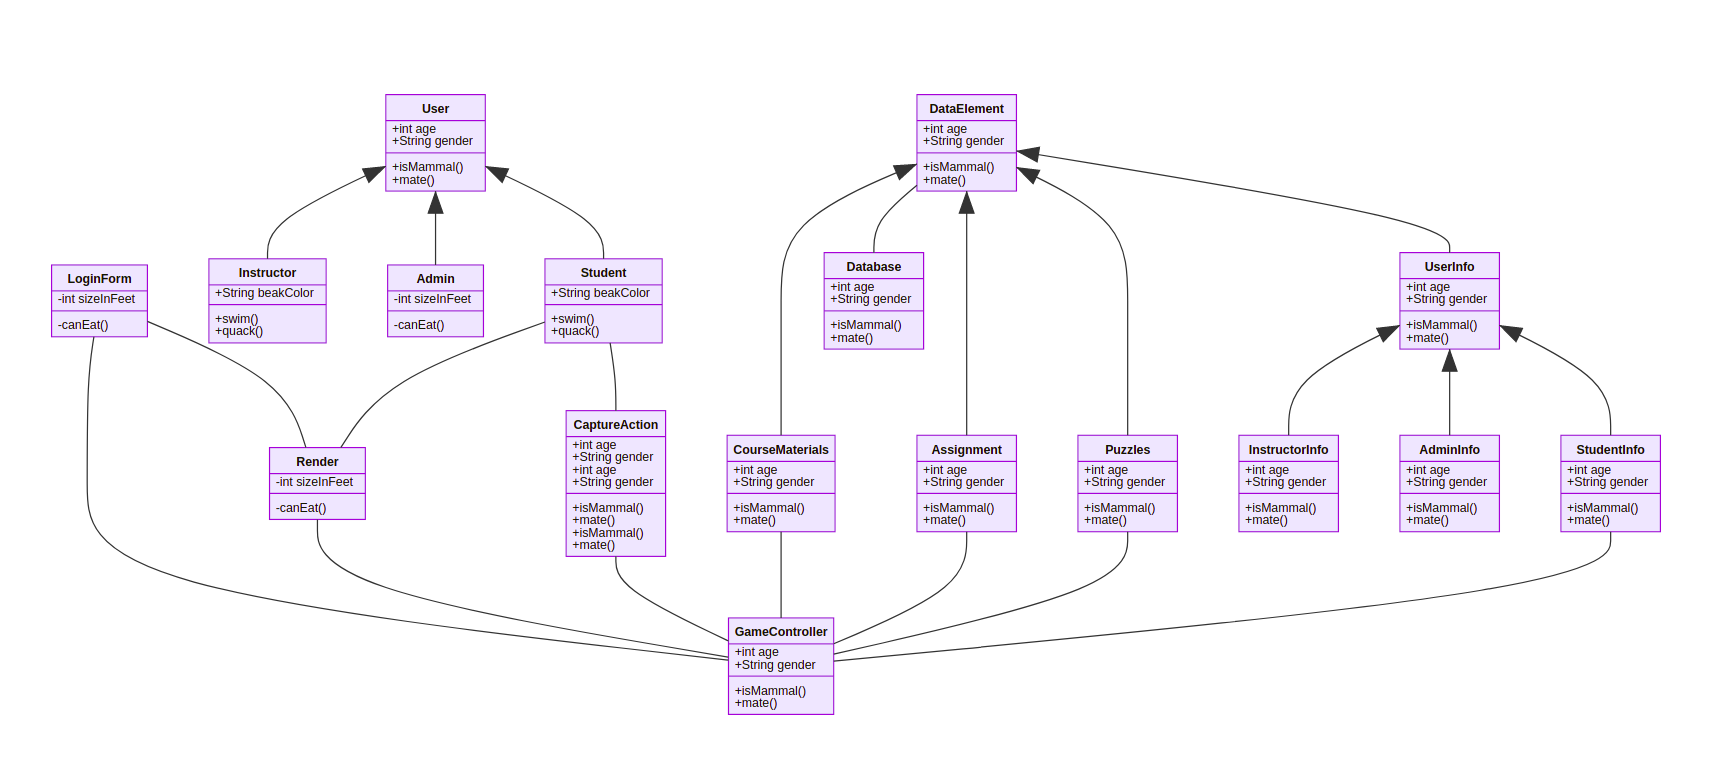
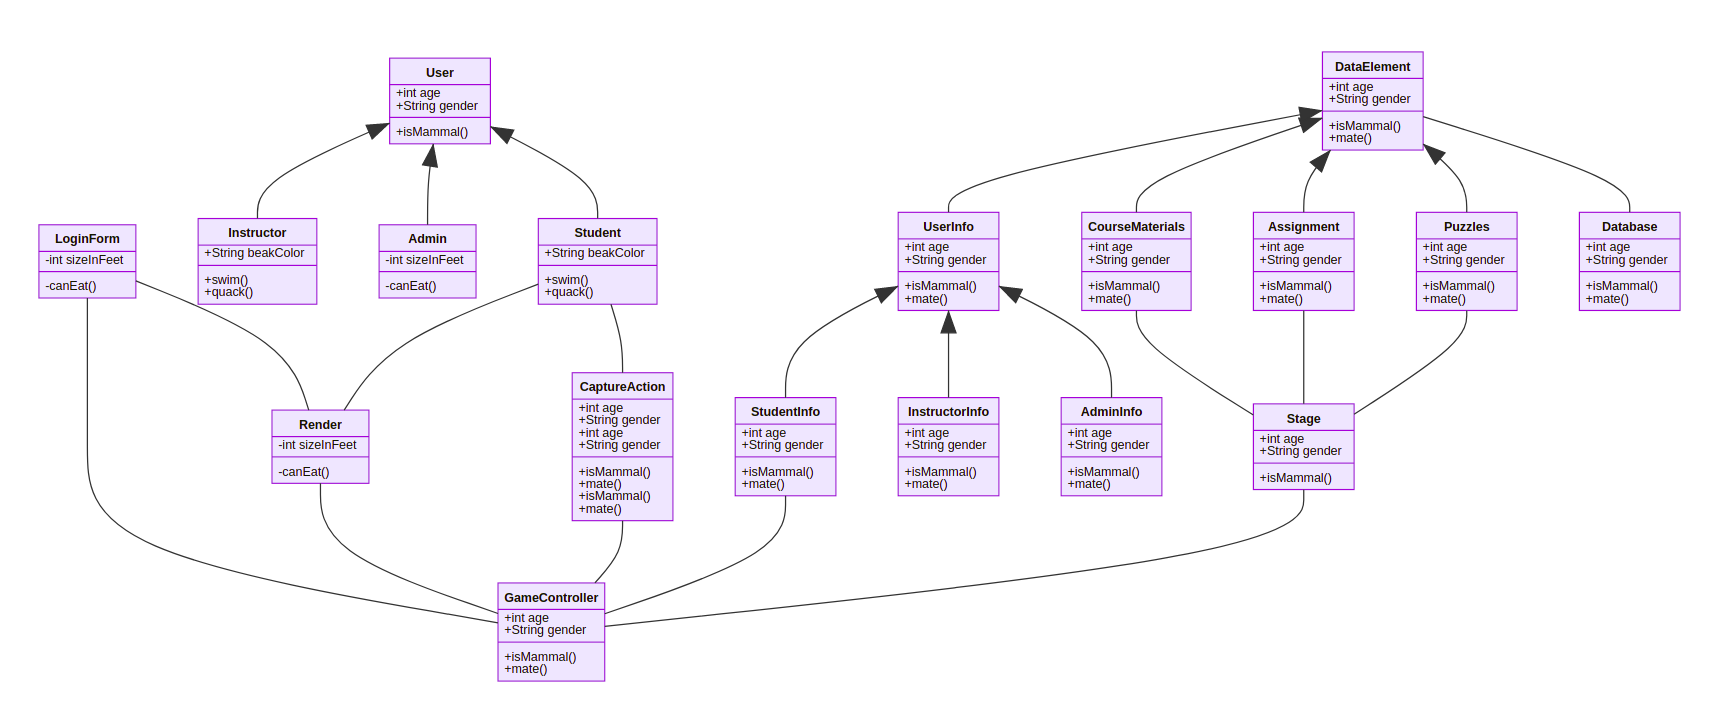
applying modifications

diff --git a/Assignment_2/class_draft/class_login_browse.md b/Assignment_2/class_draft/class_login_browse.md
@@ -1,25 +1,25 @@
 ```mermaid
 classDiagram
 
+
 User <|-- Student
 User <|-- Instructor
 User <|-- Admin
 
 
-LoginForm -- Render
+User -- LoginForm
+
+DashboardController -- LoginForm
+DashboardController -- RenderDashboard
+DashboardController -- UserInfo
+DashboardController -- Stage
 
 
-Student -- Render
-Student -- CaptureAction
+CourseMaterials -- Stage
+Assignment -- Stage
+Puzzles -- Stage
 
-LoginForm -- GameController
-Render -- GameController
-CaptureAction -- GameController
-CourseMaterials -- GameController
-Assignment -- GameController
-Puzzles -- GameController
-StudentInfo -- GameController
-
+DataElement <|-- UserInfo
 DataElement <|-- CourseMaterials
 DataElement <|-- Assignment
 DataElement <|-- Puzzles
@@ -29,16 +29,14 @@ UserInfo <|-- StudentInfo
 UserInfo <|-- InstructorInfo
 UserInfo <|-- AdminInfo
 
-DataElement -- Database
 
 
+Database -- DataElement
 
 class User{
 +int age
 +String gender
 +isMammal()
-+mate()
-
 }
 
 class Student{
@@ -61,68 +59,33 @@ class Admin{
 
 
 class LoginForm{
--int sizeInFeet
--canEat()
-}
-
-class Render{
--int sizeInFeet
--canEat()
++String beakColor
++swim()
++quack()
 }
 
 
-class CaptureAction{
+class RenderDashboard{
++String beakColor
++swim()
++quack()
+}
+
+
+
+class DashboardController{
++String beakColor
++swim()
++quack()
+}
+
+
+class UserInfo{
 +int age
 +String gender
 +isMammal()
 +mate()
 }
-
-
-class CaptureAction{
-+int age
-+String gender
-+isMammal()
-+mate()
-}
-
-
-class GameController{
-+int age
-+String gender
-+isMammal()
-+mate()
-}
-
-
-class CourseMaterials{
-+int age
-+String gender
-+isMammal()
-+mate()
-}
-
-class Puzzles{
-+int age
-+String gender
-+isMammal()
-+mate()
-}
-
-class Assignment{
-+int age
-+String gender
-+isMammal()
-+mate()
-}
-
-class DataElement{
-+int age
-+String gender
-+isMammal()
-+mate()
-}
-
 
 class UserInfo{
 +int age
@@ -156,8 +119,28 @@ class AdminInfo{
 }
 
 
+class Stage{
++int age
++String gender
++isMammal()
+}
 
-class Database{
+
+class CourseMaterials{
++int age
++String gender
++isMammal()
++mate()
+}
+
+class Puzzles{
++int age
++String gender
++isMammal()
++mate()
+}
+
+class Assignment{
 +int age
 +String gender
 +isMammal()
@@ -168,6 +151,23 @@ class Database{
 
 
 
+class DataElement{
++int age
++String gender
++isMammal()
++mate()
+}
+
+
+DataElement <|-- CourseMaterials
+DataElement <|-- Assignment
+DataElement <|-- Puzzles
+DataElement <|-- UserInfo
+
+class Database{
++int age
++String gender
++isMammal()
++mate()
+}
 ```
-
-

diff --git a/Assignment_2/class_draft/class_playgame.md b/Assignment_2/class_draft/class_playgame.md
@@ -1,0 +1,182 @@
+```mermaid
+classDiagram
+
+User <|-- Student
+User <|-- Instructor
+User <|-- Admin
+
+
+LoginForm -- Render
+
+
+Student -- Render
+Student -- CaptureAction
+
+LoginForm -- GameController
+Render -- GameController
+CaptureAction -- GameController
+StudentInfo -- GameController
+Stage -- GameController
+
+CourseMaterials -- Stage
+Assignment -- Stage
+Puzzles -- Stage
+
+DataElement <|-- CourseMaterials
+DataElement <|-- Assignment
+DataElement <|-- Puzzles
+DataElement <|-- UserInfo
+
+UserInfo <|-- StudentInfo
+UserInfo <|-- InstructorInfo
+UserInfo <|-- AdminInfo
+
+DataElement -- Database
+
+
+
+class User{
++int age
++String gender
++isMammal()
+}
+
+class Student{
++String beakColor
++swim()
++quack()
+}
+
+class Instructor{
++String beakColor
++swim()
++quack()
+}
+
+class Admin{
+-int sizeInFeet
+-canEat()
+}
+
+
+
+class LoginForm{
+-int sizeInFeet
+-canEat()
+}
+
+class Render{
+-int sizeInFeet
+-canEat()
+}
+
+
+class CaptureAction{
++int age
++String gender
++isMammal()
++mate()
+}
+
+
+class CaptureAction{
++int age
++String gender
++isMammal()
++mate()
+}
+
+
+class GameController{
++int age
++String gender
++isMammal()
++mate()
+}
+
+
+class Stage{
++int age
++String gender
++isMammal()
+}
+
+
+class CourseMaterials{
++int age
++String gender
++isMammal()
++mate()
+}
+
+class Puzzles{
++int age
++String gender
++isMammal()
++mate()
+}
+
+class Assignment{
++int age
++String gender
++isMammal()
++mate()
+}
+
+
+
+class UserInfo{
++int age
++String gender
++isMammal()
++mate()
+}
+
+
+class StudentInfo{
++int age
++String gender
++isMammal()
++mate()
+}
+
+
+class InstructorInfo{
++int age
++String gender
++isMammal()
++mate()
+}
+
+
+class AdminInfo{
++int age
++String gender
++isMammal()
++mate()
+}
+
+
+class DataElement{
++int age
++String gender
++isMammal()
++mate()
+}
+
+
+
+class Database{
++int age
++String gender
++isMammal()
++mate()
+}
+
+
+
+
+
+```
+
+
